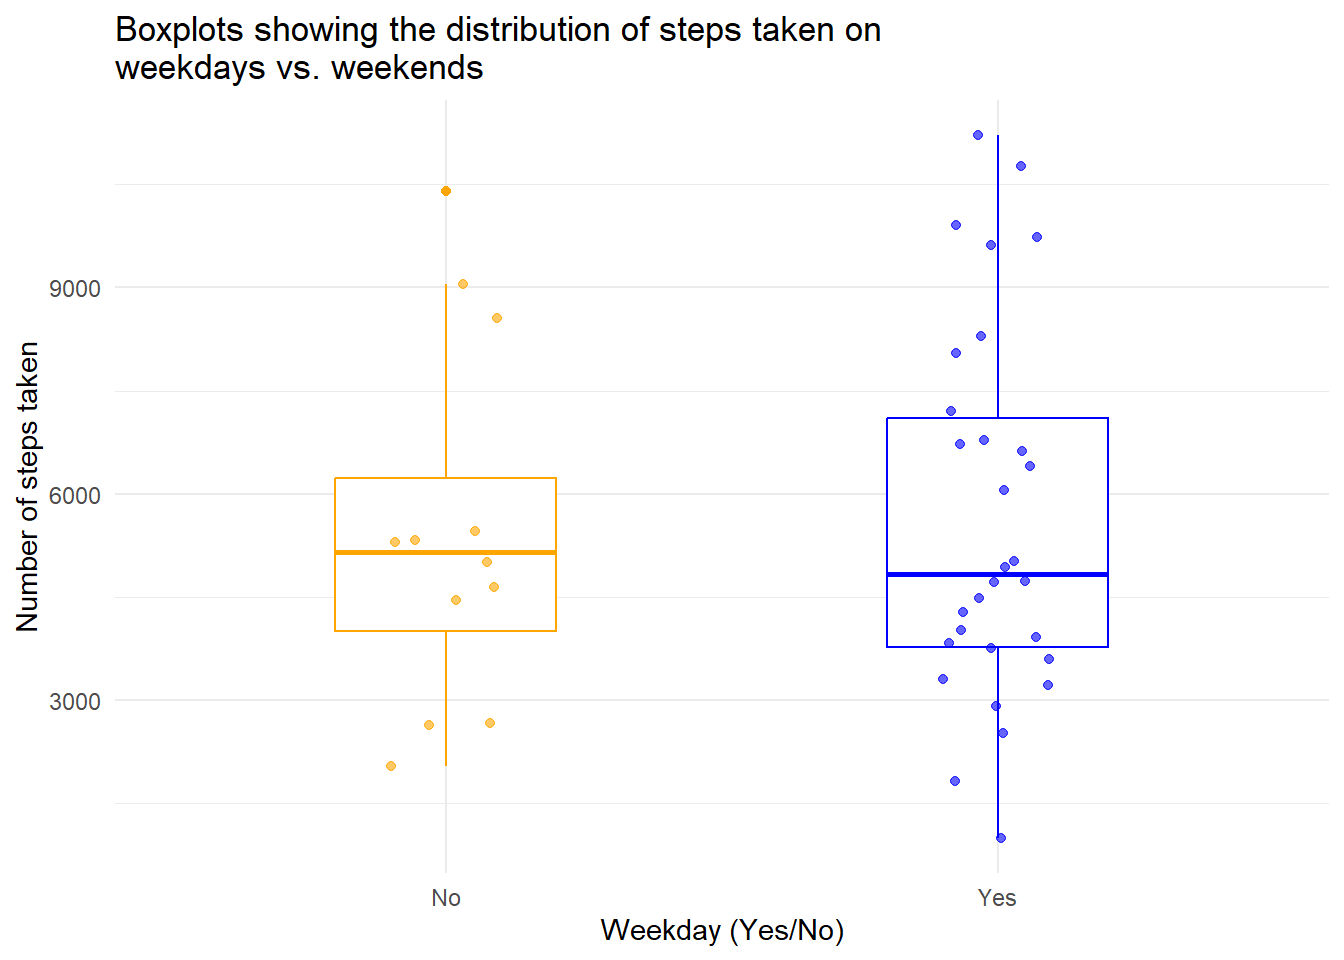
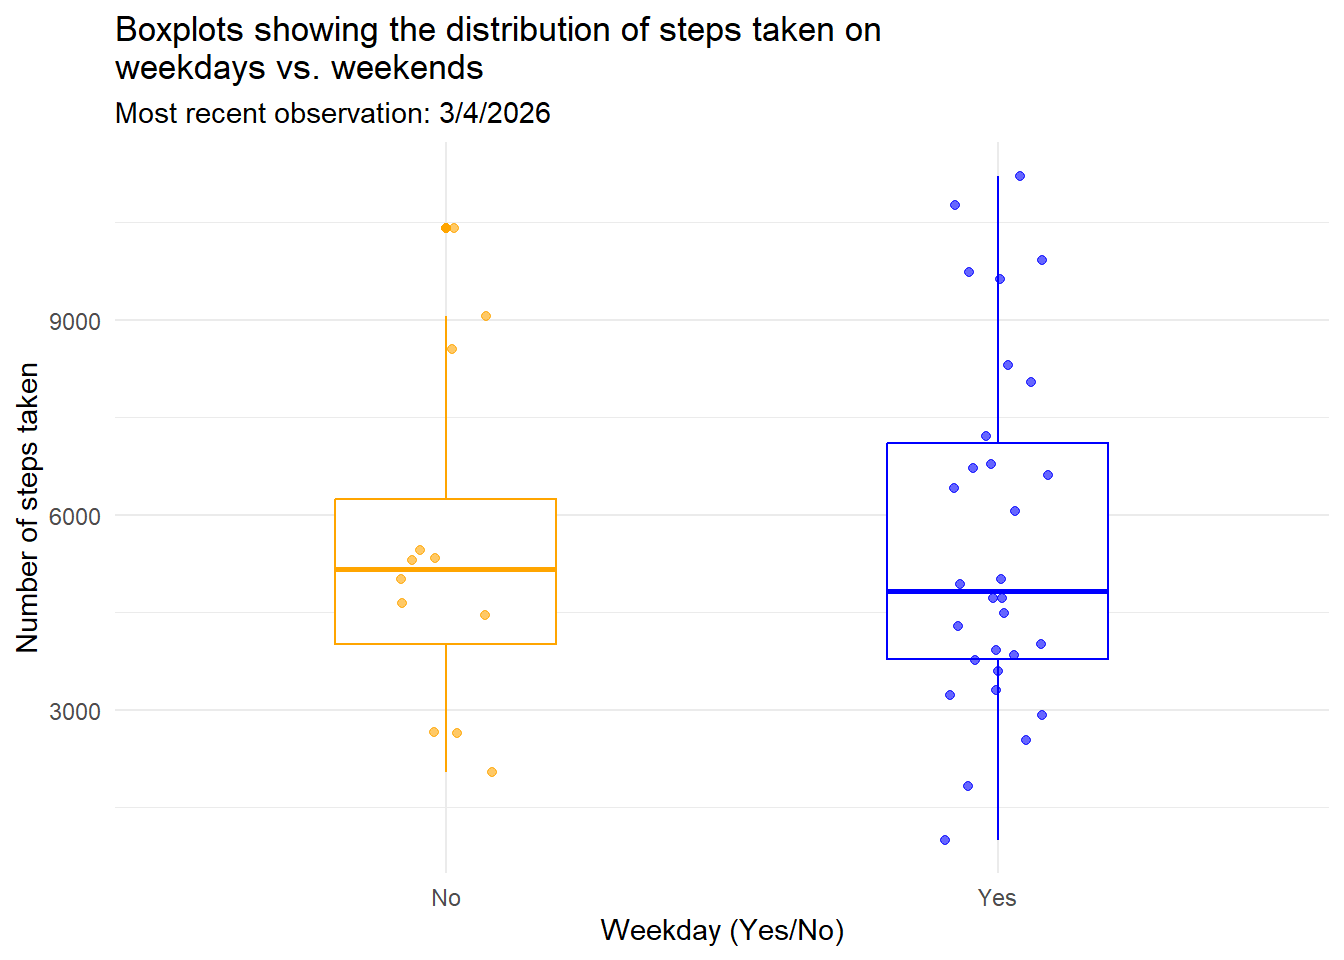
updated responses to parts 1c, 1f, 2a. added new responses to all parts of problem 4

diff --git a/code/ENVS-193DS_homework-03.html b/code/ENVS-193DS_homework-03.html
@@ -198,8 +198,7 @@ window.Quarto = {
 <span id="cb1-10"><a href="#cb1-10" aria-hidden="true" tabindex="-1"></a>  <span class="fu">clean_names</span>() <span class="sc">|&gt;</span> </span>
 <span id="cb1-11"><a href="#cb1-11" aria-hidden="true" tabindex="-1"></a>  <span class="fu">rename</span>(<span class="at">salinity_ms_cm =</span> salinity_m_s_cm)</span>
 <span id="cb1-12"><a href="#cb1-12" aria-hidden="true" tabindex="-1"></a>personal <span class="ot">&lt;-</span> <span class="fu">read_csv</span>(<span class="fu">here</span>(<span class="st">"data"</span>, <span class="st">"envs193ds-personal-data.csv"</span>)) <span class="sc">|&gt;</span> </span>
-<span id="cb1-13"><a href="#cb1-13" aria-hidden="true" tabindex="-1"></a>  <span class="fu">clean_names</span>()</span>
-<span id="cb1-14"><a href="#cb1-14" aria-hidden="true" tabindex="-1"></a>image <span class="ot">&lt;-</span> <span class="fu">here</span>(<span class="st">"images"</span>, <span class="st">"heatwave_figure3.jpg"</span>)</span></code></pre></div><button title="Copy to Clipboard" class="code-copy-button"><i class="bi"></i></button></div>
+<span id="cb1-13"><a href="#cb1-13" aria-hidden="true" tabindex="-1"></a>  <span class="fu">clean_names</span>()</span></code></pre></div><button title="Copy to Clipboard" class="code-copy-button"><i class="bi"></i></button></div>
 </div>
 </section>
 <section id="part-2.-problems" class="level1">
@@ -291,7 +290,7 @@ window.Quarto = {
 </div>
 </div>
 </div>
-<p>We can see that as we follow the plot along the x-axis to the right, the points also visually seem to shift further upwards along the y-axis. These shifts seem to be consistent as we move along the x-axis (the points don’t begin to curve or switch directions), so we can confirm linearity between our soil salinity and pickleweed biomass variables.</p>
+<p>We can see that as we follow the plot along the x-axis to the right, the points also visually seem to shift further upwards along the y-axis. These shifts seem to be consistent as we move along the x-axis (the points don’t begin to follow a curved path or switch directions), so we can confirm linearity between our soil salinity and pickleweed biomass variables.</p>
 <p><strong>Conclusion</strong></p>
 <p>Since our two variables both appear to be relatively normal, they are both continuous, the observations are independent, and the relationship between the two variables is linear, we can continue with the test!</p>
 </section>
@@ -343,13 +342,14 @@ sample estimates:
 0.5928854 </code></pre>
 </div>
 </div>
-<p>These results also reflect a moderate positive relationship between soil salinity and pickleweed biomass (Spearman <span class="math inline">\(\rho\)</span> = 0.59, S = 824, p = 0.003, <span class="math inline">\(\alpha\)</span> = 0.05).</p>
+<p>Based on the results of these two tests, I would have made the same decision to reject the null hypothesis: that the true correlation between the two variables is equal to 0; and I would have also made the same biological interpretation: these results also reflect a moderate positive relationship between soil salinity and pickleweed biomass (Spearman <span class="math inline">\(\rho\)</span> = 0.59, S = 824, p = 0.003, <span class="math inline">\(\alpha\)</span> = 0.05). We can see that the Pearson test gave us a significant (p = 0.008) correlation value (<code>cor</code>) of 0.53 and the Spearman test gave us a significant (p = 0.003) correlation value (<code>rho</code>) of 0.59. Since we consider correlation coefficients ranging from |0.4| - |0.6| to be a moderate strength correlation, we would conclude in both tests that the correlation between soil salinity and pickleweed biomass is moderately strong.</p>
 </section>
 </section>
 <section id="problem-2.-personal-data" class="level2">
 <h2 class="anchored" data-anchor-id="problem-2.-personal-data">Problem 2. Personal data</h2>
 <section id="a.-updating-your-visualizations" class="level3">
 <h3 class="anchored" data-anchor-id="a.-updating-your-visualizations">a. Updating your visualizations</h3>
+<p><strong>Updated plot 1: steps vs.&nbsp;weekday</strong></p>
 <div class="cell">
 <div class="code-copy-outer-scaffold"><div class="sourceCode cell-code" id="cb10"><pre class="sourceCode r code-with-copy"><code class="sourceCode r"><span id="cb10-1"><a href="#cb10-1" aria-hidden="true" tabindex="-1"></a><span class="fu">ggplot</span>(<span class="at">data =</span> personal, <span class="co"># use personal data</span></span>
 <span id="cb10-2"><a href="#cb10-2" aria-hidden="true" tabindex="-1"></a>       <span class="fu">aes</span>(<span class="at">x =</span> weekday, <span class="co"># set x-axis to predictor variable (weekday)</span></span>
@@ -361,11 +361,12 @@ sample estimates:
 <span id="cb10-8"><a href="#cb10-8" aria-hidden="true" tabindex="-1"></a>              <span class="at">alpha =</span> <span class="fl">0.6</span>) <span class="sc">+</span> <span class="co"># adjust transparency</span></span>
 <span id="cb10-9"><a href="#cb10-9" aria-hidden="true" tabindex="-1"></a>  <span class="fu">scale_color_manual</span>(<span class="at">values =</span> <span class="fu">c</span>(<span class="st">"Yes"</span> <span class="ot">=</span> <span class="st">"blue"</span>,</span>
 <span id="cb10-10"><a href="#cb10-10" aria-hidden="true" tabindex="-1"></a>                                <span class="st">"No"</span> <span class="ot">=</span> <span class="st">"orange"</span>)) <span class="sc">+</span></span>
-<span id="cb10-11"><a href="#cb10-11" aria-hidden="true" tabindex="-1"></a>  <span class="fu">labs</span>(<span class="at">x =</span> <span class="st">"Weekday (Yes/No)"</span>, <span class="co"># add labels to axes, and add a title</span></span>
+<span id="cb10-11"><a href="#cb10-11" aria-hidden="true" tabindex="-1"></a>  <span class="fu">labs</span>(<span class="at">x =</span> <span class="st">"Weekday (Yes/No)"</span>, <span class="co"># add labels to axes, and add a title and subtitle</span></span>
 <span id="cb10-12"><a href="#cb10-12" aria-hidden="true" tabindex="-1"></a>       <span class="at">y =</span> <span class="st">"Number of steps taken"</span>,</span>
-<span id="cb10-13"><a href="#cb10-13" aria-hidden="true" tabindex="-1"></a>       <span class="at">title =</span> <span class="st">"Boxplots showing the distribution of steps taken on </span><span class="sc">\n</span><span class="st">weekdays vs. weekends"</span>) <span class="sc">+</span></span>
-<span id="cb10-14"><a href="#cb10-14" aria-hidden="true" tabindex="-1"></a>  <span class="fu">theme_minimal</span>() <span class="sc">+</span> <span class="co"># change the theme</span></span>
-<span id="cb10-15"><a href="#cb10-15" aria-hidden="true" tabindex="-1"></a>  <span class="fu">theme</span>(<span class="at">legend.position =</span> <span class="st">"none"</span>) <span class="co"># remove the legend</span></span></code></pre></div><button title="Copy to Clipboard" class="code-copy-button"><i class="bi"></i></button></div>
+<span id="cb10-13"><a href="#cb10-13" aria-hidden="true" tabindex="-1"></a>       <span class="at">title =</span> <span class="st">"Boxplots showing the distribution of steps taken on </span><span class="sc">\n</span><span class="st">weekdays vs. weekends"</span>,</span>
+<span id="cb10-14"><a href="#cb10-14" aria-hidden="true" tabindex="-1"></a>       <span class="at">subtitle =</span> <span class="st">"Most recent observation: 3/4/2026"</span>) <span class="sc">+</span></span>
+<span id="cb10-15"><a href="#cb10-15" aria-hidden="true" tabindex="-1"></a>  <span class="fu">theme_minimal</span>() <span class="sc">+</span> <span class="co"># change the theme</span></span>
+<span id="cb10-16"><a href="#cb10-16" aria-hidden="true" tabindex="-1"></a>  <span class="fu">theme</span>(<span class="at">legend.position =</span> <span class="st">"none"</span>) <span class="co"># remove the legend</span></span></code></pre></div><button title="Copy to Clipboard" class="code-copy-button"><i class="bi"></i></button></div>
 <div class="cell-output-display">
 <div>
 <figure class="figure">
@@ -374,48 +375,29 @@ sample estimates:
 </div>
 </div>
 </div>
+<p><strong>New plot 2: steps vs.&nbsp;weather</strong></p>
 <div class="cell">
 <div class="code-copy-outer-scaffold"><div class="sourceCode cell-code" id="cb11"><pre class="sourceCode r code-with-copy"><code class="sourceCode r"><span id="cb11-1"><a href="#cb11-1" aria-hidden="true" tabindex="-1"></a><span class="fu">ggplot</span>(<span class="at">data =</span> personal, <span class="co"># use personal data</span></span>
 <span id="cb11-2"><a href="#cb11-2" aria-hidden="true" tabindex="-1"></a>       <span class="fu">aes</span>(<span class="at">x =</span> weather, <span class="co"># set x-axis to predictor variable (weather)</span></span>
 <span id="cb11-3"><a href="#cb11-3" aria-hidden="true" tabindex="-1"></a>           <span class="at">y =</span> steps_taken,</span>
-<span id="cb11-4"><a href="#cb11-4" aria-hidden="true" tabindex="-1"></a>           <span class="at">color =</span> weekday)) <span class="sc">+</span> <span class="co"># differentiate by weekday</span></span>
+<span id="cb11-4"><a href="#cb11-4" aria-hidden="true" tabindex="-1"></a>           <span class="at">color =</span> weather)) <span class="sc">+</span> <span class="co"># differentiate by weekday</span></span>
 <span id="cb11-5"><a href="#cb11-5" aria-hidden="true" tabindex="-1"></a>  <span class="fu">geom_boxplot</span>(<span class="at">width =</span> <span class="fl">0.4</span>) <span class="sc">+</span> <span class="co"># add a boxplot, adjust width</span></span>
 <span id="cb11-6"><a href="#cb11-6" aria-hidden="true" tabindex="-1"></a>  <span class="fu">geom_jitter</span>(<span class="at">width =</span> <span class="fl">0.1</span>, <span class="co"># add jitter points, adjust width</span></span>
 <span id="cb11-7"><a href="#cb11-7" aria-hidden="true" tabindex="-1"></a>              <span class="at">height =</span> <span class="dv">0</span>, <span class="co"># no height jitter</span></span>
 <span id="cb11-8"><a href="#cb11-8" aria-hidden="true" tabindex="-1"></a>              <span class="at">alpha =</span> <span class="fl">0.6</span>) <span class="sc">+</span> <span class="co"># adjust transparency </span></span>
-<span id="cb11-9"><a href="#cb11-9" aria-hidden="true" tabindex="-1"></a>  <span class="fu">facet_wrap</span>(<span class="sc">~</span> weekday) <span class="sc">+</span></span>
-<span id="cb11-10"><a href="#cb11-10" aria-hidden="true" tabindex="-1"></a>  <span class="fu">scale_color_manual</span>(<span class="at">values =</span> <span class="fu">c</span>(<span class="st">"Yes"</span> <span class="ot">=</span> <span class="st">"blue"</span>,</span>
-<span id="cb11-11"><a href="#cb11-11" aria-hidden="true" tabindex="-1"></a>                                <span class="st">"No"</span> <span class="ot">=</span> <span class="st">"orange"</span>)) <span class="sc">+</span></span>
-<span id="cb11-12"><a href="#cb11-12" aria-hidden="true" tabindex="-1"></a>  <span class="fu">labs</span>(<span class="at">x =</span> <span class="st">"Weather"</span>, <span class="co"># add labels to axes, and add a title</span></span>
+<span id="cb11-9"><a href="#cb11-9" aria-hidden="true" tabindex="-1"></a>  <span class="fu">scale_color_manual</span>(<span class="at">values =</span> <span class="fu">c</span>(<span class="st">"Overcast"</span> <span class="ot">=</span> <span class="st">"darkgrey"</span>,</span>
+<span id="cb11-10"><a href="#cb11-10" aria-hidden="true" tabindex="-1"></a>                                <span class="st">"Sunny"</span> <span class="ot">=</span> <span class="st">"gold2"</span>,</span>
+<span id="cb11-11"><a href="#cb11-11" aria-hidden="true" tabindex="-1"></a>                                <span class="st">"Rainy"</span> <span class="ot">=</span> <span class="st">"turquoise3"</span>)) <span class="sc">+</span></span>
+<span id="cb11-12"><a href="#cb11-12" aria-hidden="true" tabindex="-1"></a>  <span class="fu">labs</span>(<span class="at">x =</span> <span class="st">"Weather"</span>, <span class="co"># add labels to axes, and add a title and subtitle</span></span>
 <span id="cb11-13"><a href="#cb11-13" aria-hidden="true" tabindex="-1"></a>       <span class="at">y =</span> <span class="st">"Number of steps taken"</span>,</span>
-<span id="cb11-14"><a href="#cb11-14" aria-hidden="true" tabindex="-1"></a>       <span class="at">title =</span> <span class="st">"Boxplots showing the distribution of steps taken on </span><span class="sc">\n</span><span class="st">weekdays vs. weather types"</span>) <span class="sc">+</span></span>
-<span id="cb11-15"><a href="#cb11-15" aria-hidden="true" tabindex="-1"></a>  <span class="fu">theme_minimal</span>() <span class="sc">+</span> <span class="co"># change the theme</span></span>
-<span id="cb11-16"><a href="#cb11-16" aria-hidden="true" tabindex="-1"></a>  <span class="fu">theme</span>(<span class="at">legend.position =</span> <span class="st">"none"</span>) <span class="co"># remove the legend</span></span></code></pre></div><button title="Copy to Clipboard" class="code-copy-button"><i class="bi"></i></button></div>
+<span id="cb11-14"><a href="#cb11-14" aria-hidden="true" tabindex="-1"></a>       <span class="at">title =</span> <span class="st">"Boxplots showing the distribution of steps taken by weather type"</span>,</span>
+<span id="cb11-15"><a href="#cb11-15" aria-hidden="true" tabindex="-1"></a>       <span class="at">subtitle =</span> <span class="st">"Most recent observation: 3/4/2026"</span>) <span class="sc">+</span></span>
+<span id="cb11-16"><a href="#cb11-16" aria-hidden="true" tabindex="-1"></a>  <span class="fu">theme_minimal</span>() <span class="sc">+</span> <span class="co"># change the theme</span></span>
+<span id="cb11-17"><a href="#cb11-17" aria-hidden="true" tabindex="-1"></a>  <span class="fu">theme</span>(<span class="at">legend.position =</span> <span class="st">"none"</span>) <span class="co"># remove the legend</span></span></code></pre></div><button title="Copy to Clipboard" class="code-copy-button"><i class="bi"></i></button></div>
 <div class="cell-output-display">
 <div>
 <figure class="figure">
 <p><img src="ENVS-193DS_homework-03_files/figure-html/unnamed-chunk-7-1.png" class="img-fluid figure-img" width="672"></p>
-</figure>
-</div>
-</div>
-</div>
-<div class="cell">
-<div class="code-copy-outer-scaffold"><div class="sourceCode cell-code" id="cb12"><pre class="sourceCode r code-with-copy"><code class="sourceCode r"><span id="cb12-1"><a href="#cb12-1" aria-hidden="true" tabindex="-1"></a><span class="fu">ggplot</span>(<span class="at">data =</span> personal, <span class="co"># use personal data</span></span>
-<span id="cb12-2"><a href="#cb12-2" aria-hidden="true" tabindex="-1"></a>       <span class="fu">aes</span>(<span class="at">x =</span> caffeine_comsumed_mg, <span class="co"># set x- and y-axes to appropriate variables</span></span>
-<span id="cb12-3"><a href="#cb12-3" aria-hidden="true" tabindex="-1"></a>           <span class="at">y =</span> steps_taken,</span>
-<span id="cb12-4"><a href="#cb12-4" aria-hidden="true" tabindex="-1"></a>           <span class="at">color =</span> weekday)) <span class="sc">+</span> <span class="co"># differentiate by weekday</span></span>
-<span id="cb12-5"><a href="#cb12-5" aria-hidden="true" tabindex="-1"></a>  <span class="fu">geom_point</span>(<span class="at">alpha =</span> <span class="fl">0.4</span>) <span class="sc">+</span> <span class="co"># add points</span></span>
-<span id="cb12-6"><a href="#cb12-6" aria-hidden="true" tabindex="-1"></a>    <span class="fu">scale_color_manual</span>(<span class="at">values =</span> <span class="fu">c</span>(<span class="st">"Yes"</span> <span class="ot">=</span> <span class="st">"blue"</span>,</span>
-<span id="cb12-7"><a href="#cb12-7" aria-hidden="true" tabindex="-1"></a>                                <span class="st">"No"</span> <span class="ot">=</span> <span class="st">"orange"</span>)) <span class="sc">+</span></span>
-<span id="cb12-8"><a href="#cb12-8" aria-hidden="true" tabindex="-1"></a>  <span class="fu">labs</span>(<span class="at">x =</span> <span class="st">"Caffeine consumed (mg)"</span>, <span class="co"># add labels to axes, add a title, adjust legend title</span></span>
-<span id="cb12-9"><a href="#cb12-9" aria-hidden="true" tabindex="-1"></a>       <span class="at">y =</span> <span class="st">"Steps taken"</span>,</span>
-<span id="cb12-10"><a href="#cb12-10" aria-hidden="true" tabindex="-1"></a>       <span class="at">title =</span> <span class="st">"Scatterplot showing steps taken vs. caffeine consumed"</span>,</span>
-<span id="cb12-11"><a href="#cb12-11" aria-hidden="true" tabindex="-1"></a>       <span class="at">color =</span> <span class="st">"Weekday"</span>) <span class="sc">+</span></span>
-<span id="cb12-12"><a href="#cb12-12" aria-hidden="true" tabindex="-1"></a>  <span class="fu">theme_minimal</span>() <span class="co"># change the theme</span></span></code></pre></div><button title="Copy to Clipboard" class="code-copy-button"><i class="bi"></i></button></div>
-<div class="cell-output-display">
-<div>
-<figure class="figure">
-<p><img src="ENVS-193DS_homework-03_files/figure-html/unnamed-chunk-8-1.png" class="img-fluid figure-img" width="672"></p>
 </figure>
 </div>
 </div>
@@ -458,16 +440,15 @@ sample estimates:
 </section>
 <section id="b.-visual-clarity" class="level3">
 <h3 class="anchored" data-anchor-id="b.-visual-clarity">b. Visual clarity</h3>
-<p>How clearly did the authors visually represent their statistics in figures? For example, are the x- and y-axes in a logical position? Do they show summary statistics (means and SE, for example) and/or model predictions, and if so, do they show the underlying data?</p>
+<p>The authors of the paper visually represented their statistics in a logical way, since their x- and y-axes clearly and intuitively represent change in response variable (% cover on y-axis) over time (days on x-axis). The predictor variables (ambient/heatwave, native/invasive) are also differentiated with different lines on the same plot with a legend to aid the reader. They also show summary statistics, with each data point being the mean and bars representing <span class="math inline">\(\pm\)</span> 1 SE, however the underlying data is not included.</p>
 </section>
 <section id="c.-aesthetic-clarity" class="level3">
 <h3 class="anchored" data-anchor-id="c.-aesthetic-clarity">c.&nbsp;Aesthetic clarity</h3>
-<p>How well did the authors handle “visual clutter”? How would you describe the the data:ink ratio?</p>
-<p>Remember that data:ink ratio is not an actual ratio, but a way of thinking about the amount of visual clutter relative to the information being presented.</p>
+<p>I think the authors have a pretty low data:ink ratio, or a higher level of visual clutter compared to the information being shown. For instance, the authors fit two plots into one figure, which stretches and distorts each plot and automatically increases the amount of interpretation required of the reader. Secondly, there are many symbols on the screen indicating treatment, species type, and significance–many of which overlap–and two legends instead of one for the figure. However, the authors do succeed in removing grid lines and unnecessary borders.</p>
 </section>
 <section id="d.-recommendations" class="level3">
 <h3 class="anchored" data-anchor-id="d.-recommendations">d.&nbsp;Recommendations</h3>
-<p>In 2-4 sentences, outline what recommendations would you make to make the figure or table better. What would you take out, add, or change? Provide explanations/justifications for each of your recommendations.</p>
+<p>I would split up the figure into two separate figures as figure 3a and figure 3b. This immediately reduces the amount of visual clutter on one figure and gives each plot the necessary white space to accommodate the various symbols and legends. With the additional space, the other points I made about overlapping elements and additional legends would feel less impactful.</p>
 </section>
 </section>
 </section>
